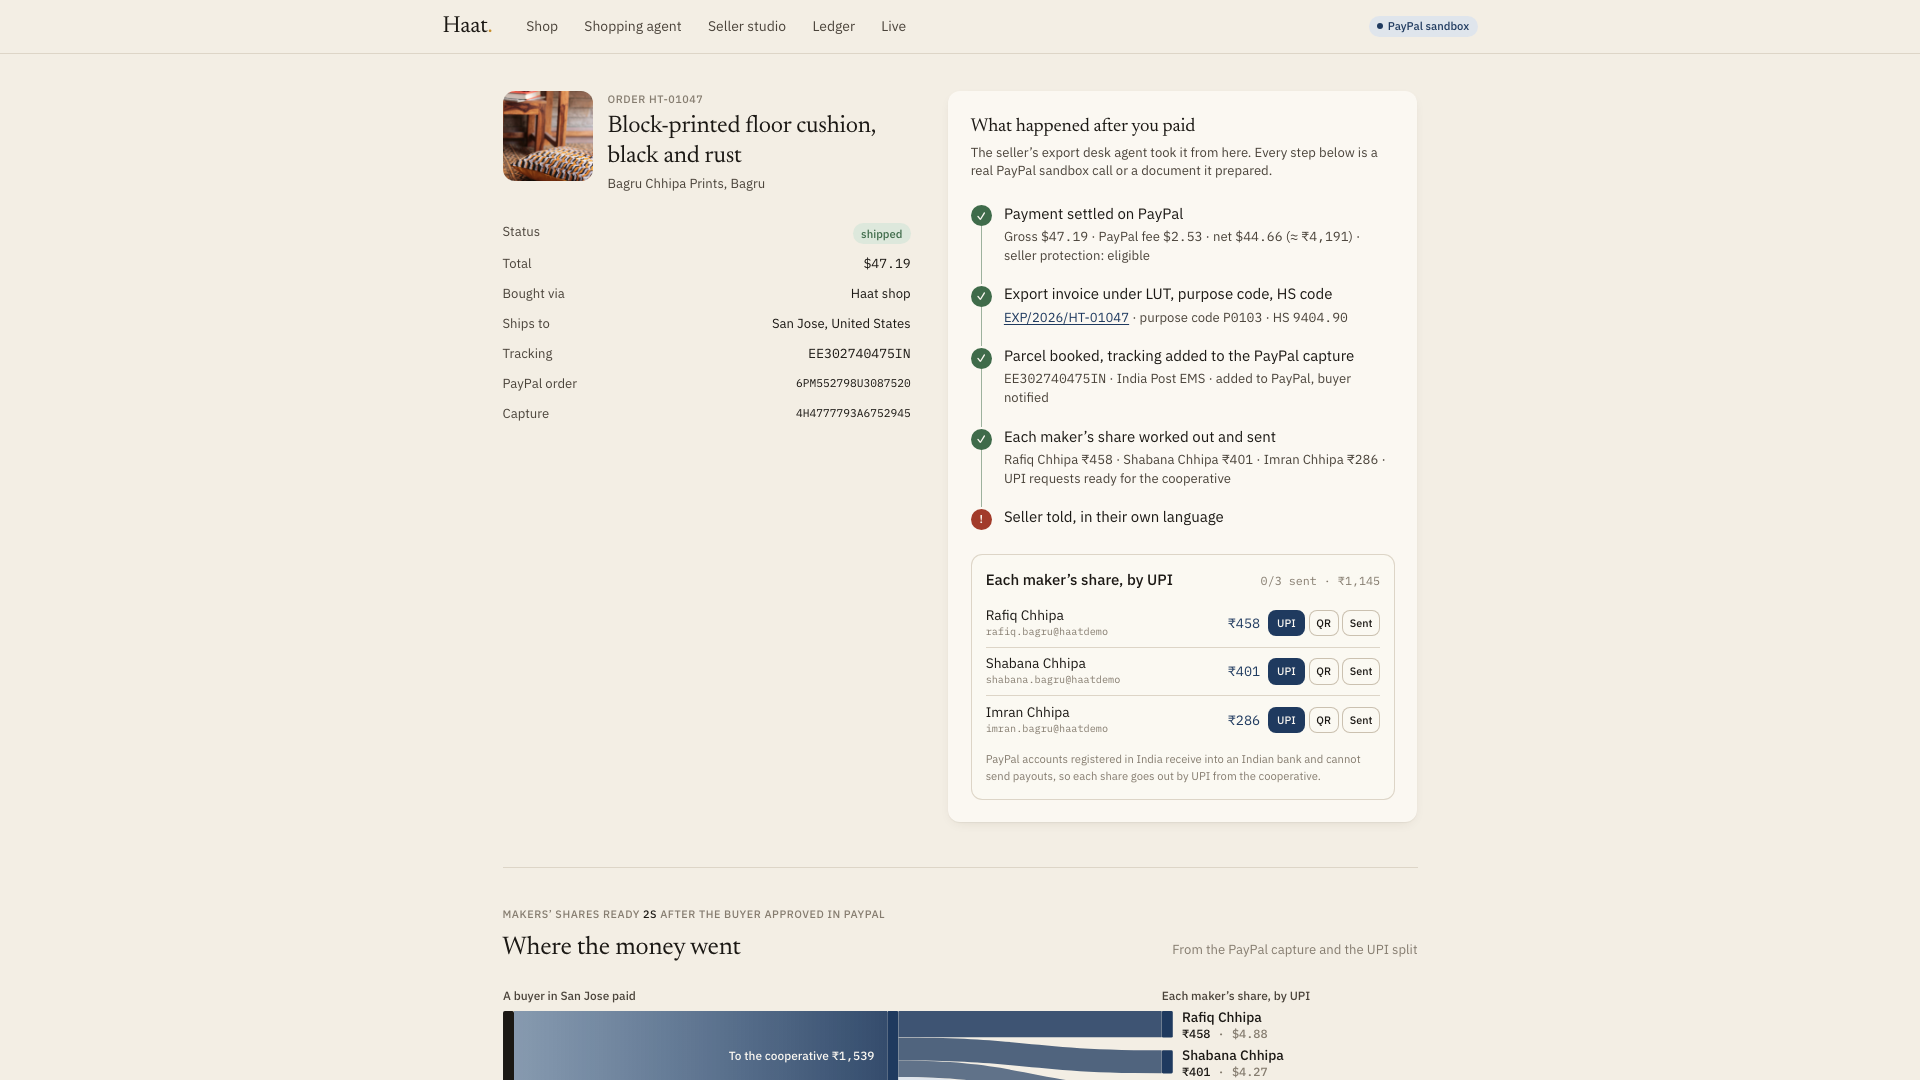
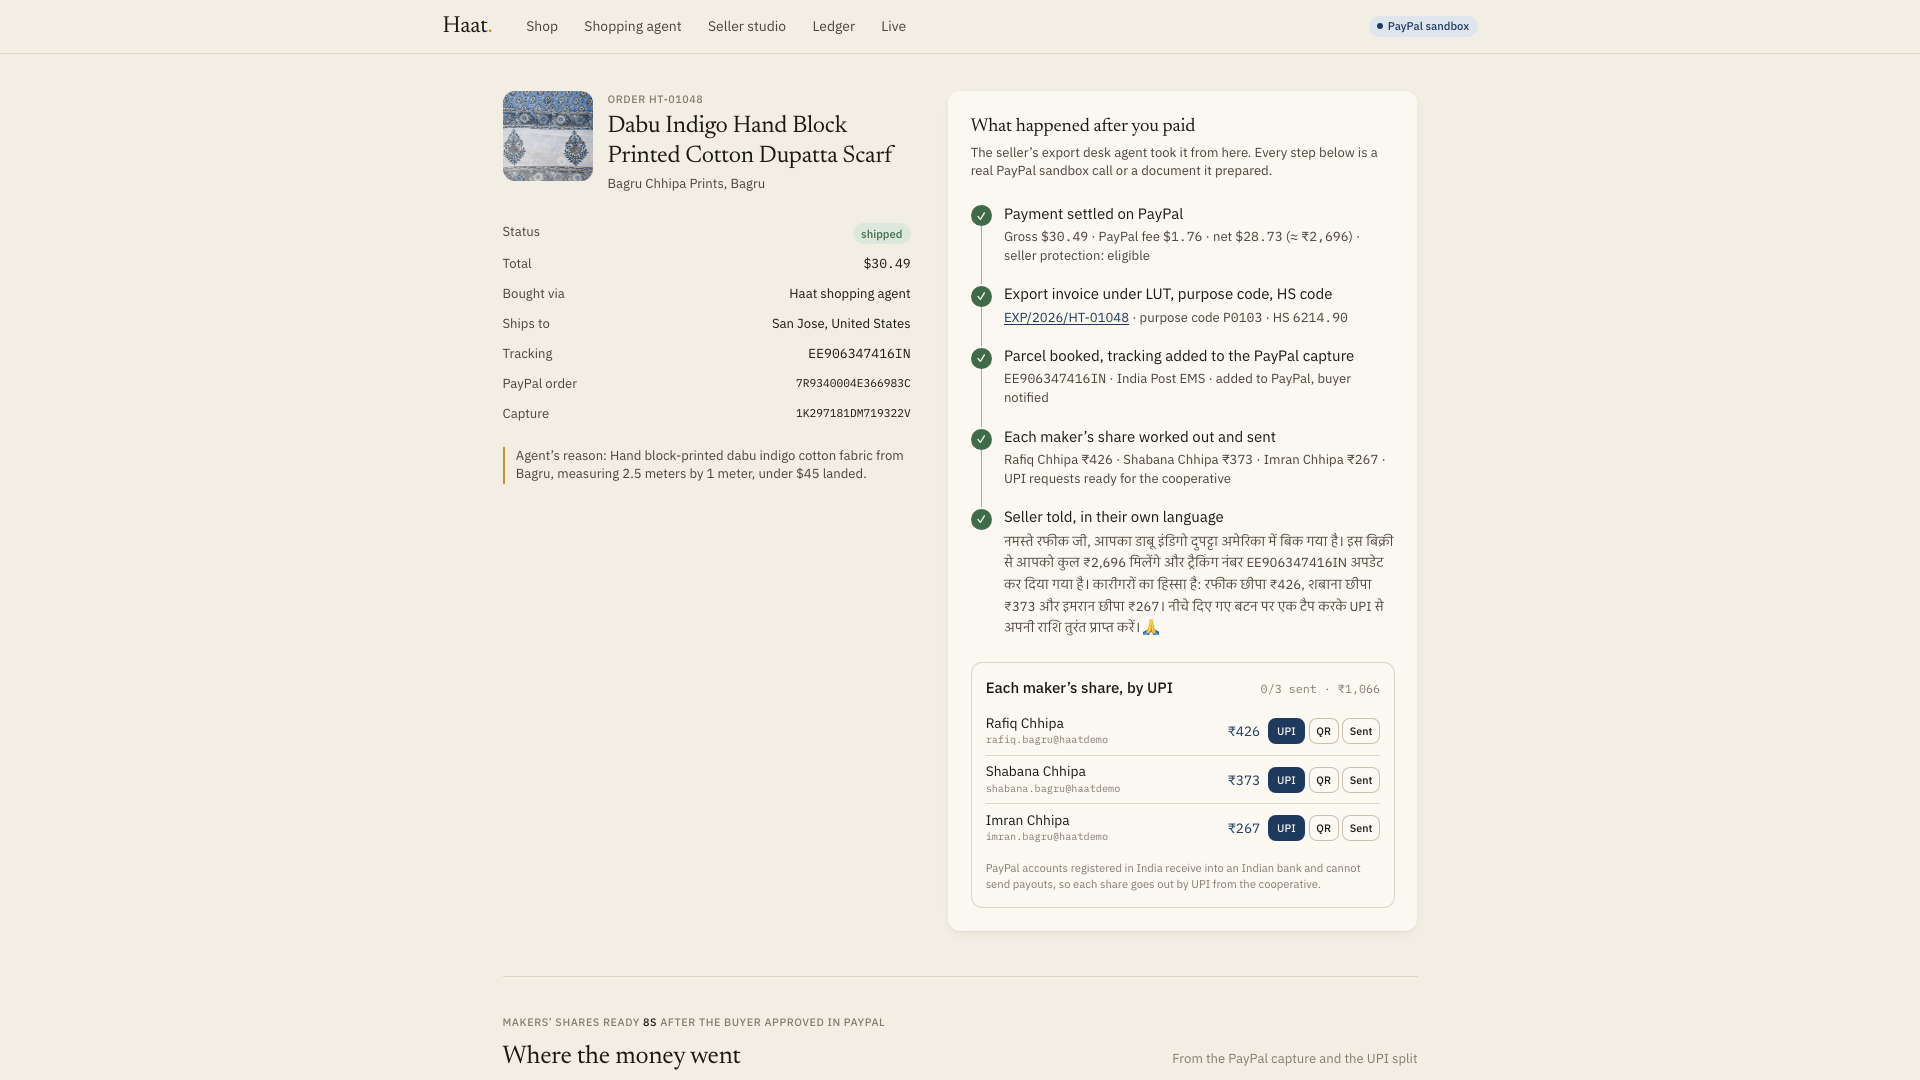
Full /app/live run verified with Gemini; all eight gallery shots
HT-01048: voice note to listing, Catalog publish, buyer agent order, approval,
and all five autopilot steps including the Hindi sale message and voice note.
Gallery capture waits for DOM ready (the SSE stream kept 'load' from firing).

diff --git a/docs/submission/QA_REPORT.md b/docs/submission/QA_REPORT.md
@@ -34,5 +34,8 @@ Scripted sweep in Chrome at 1440x900 and 375x812 of `/`, `/app`, `/app/live`, `/
 | HT-01045 | approval link (`/checkout/return`) | $46.47 | fee $2.49, eligible | EXP/2026/HT-01045 | 201 | 4 makers, ₹2,001 | needs Gemini key |
 | HT-01046 | approval link (`/checkout/return`) | $30.19 | fee $1.75, eligible | EXP/2026/HT-01046 | 201 | 3 makers, ₹1,000 | needs Gemini key |
 | HT-01047 | JS SDK button on the product page | $47.19 | fee $2.53, eligible | EXP/2026/HT-01047 | 201 | 3 makers, ₹1,145 | needs Gemini key |
+| HT-01048 | `/app/live`: voice note, Publish, buyer agent, approval link | $30.49 | eligible | EXP/2026/HT-01048, HS checked by Gemini | 201 | 3 makers | Hindi text and voice note sent |
 
-Without `GEMINI_API_KEY` the export invoice uses its built-in fallback (P0103, listing HS code, "compliance model unavailable") and the notify step shows an error. Re-run one purchase on `/app/live` once the key is set.
+Without `GEMINI_API_KEY` the export invoice uses its built-in fallback (P0103, listing HS code, "compliance model unavailable") and the notify step shows an error. With the key set, HT-01048 ran the whole `/app/live` loop: listing from the voice note in 29 s, Catalog publish, buyer agent order, approval, all five autopilot steps green.
+
+Known limit: in the built-in browser of Claude's desktop app the JS SDK button on the agent's approval card tries to open a popup, which that browser blocks for automated clicks; the approval link path was used instead. In a normal browser the popup opens.

diff --git a/docs/DEVPOST.md b/docs/DEVPOST.md
@@ -70,7 +70,7 @@ We would rather you trust a smaller claim than doubt a bigger one.
 | Listing published to the PayPal Catalog | Real sandbox call |
 | Buyer agent creates a PayPal order inside a mandate; human approves in PayPal | Real sandbox calls |
 | Buyer approval in PayPal, capture, export invoice, tracking on the capture, makers' UPI split, money-flow sheet | Real sandbox calls, verified 12 Nov 2026 with a US sandbox buyer (orders HT-01045 to HT-01047) |
-| Hindi sale message and voice note to the maker after a sale | Built, runs on Gemini; not yet verified end to end |
+| Hindi sale message and voice note to the maker after a sale | Real Gemini calls, verified 12 Nov 2026 on `/app/live` (HT-01048, bought by the buyer agent) |
 | Wholesale invoice through the PayPal Agent Toolkit | Real sandbox calls |
 | MCP endpoint | Tested with the official MCP client (search, details, checkout, status) |
 | Makers' split | UPI requests (Indian account); sample UPI IDs on a demo handle that cannot receive money |

diff --git a/docs/submission/SUBMISSION_CHECKLIST.md b/docs/submission/SUBMISSION_CHECKLIST.md
@@ -4,7 +4,7 @@ Deadline: Thu 12 Nov 2026, 12:00 PT = Fri 13 Nov, 01:30 IST. Target: submitted b
 
 ## Accounts and access
 - [x] US sandbox Personal account created; login added to README "Testing it (judges)"
-- [x] Full purchase works locally with that account (Task 1): HT-01045 to HT-01047 on 12 Nov. Still to verify: the Hindi sale message (needs `GEMINI_API_KEY`)
+- [x] Full purchase works locally with that account (Task 1): HT-01045 to HT-01047 (shop) and HT-01048 (full `/app/live` run with the buyer agent and the Hindi sale message) on 12 Nov
 - [ ] Deployed URL works end to end (Task 2), URL in `DEPLOYMENT.md`
 - [ ] `PAYPAL_WEBHOOK_ID` set on the deployment
 
